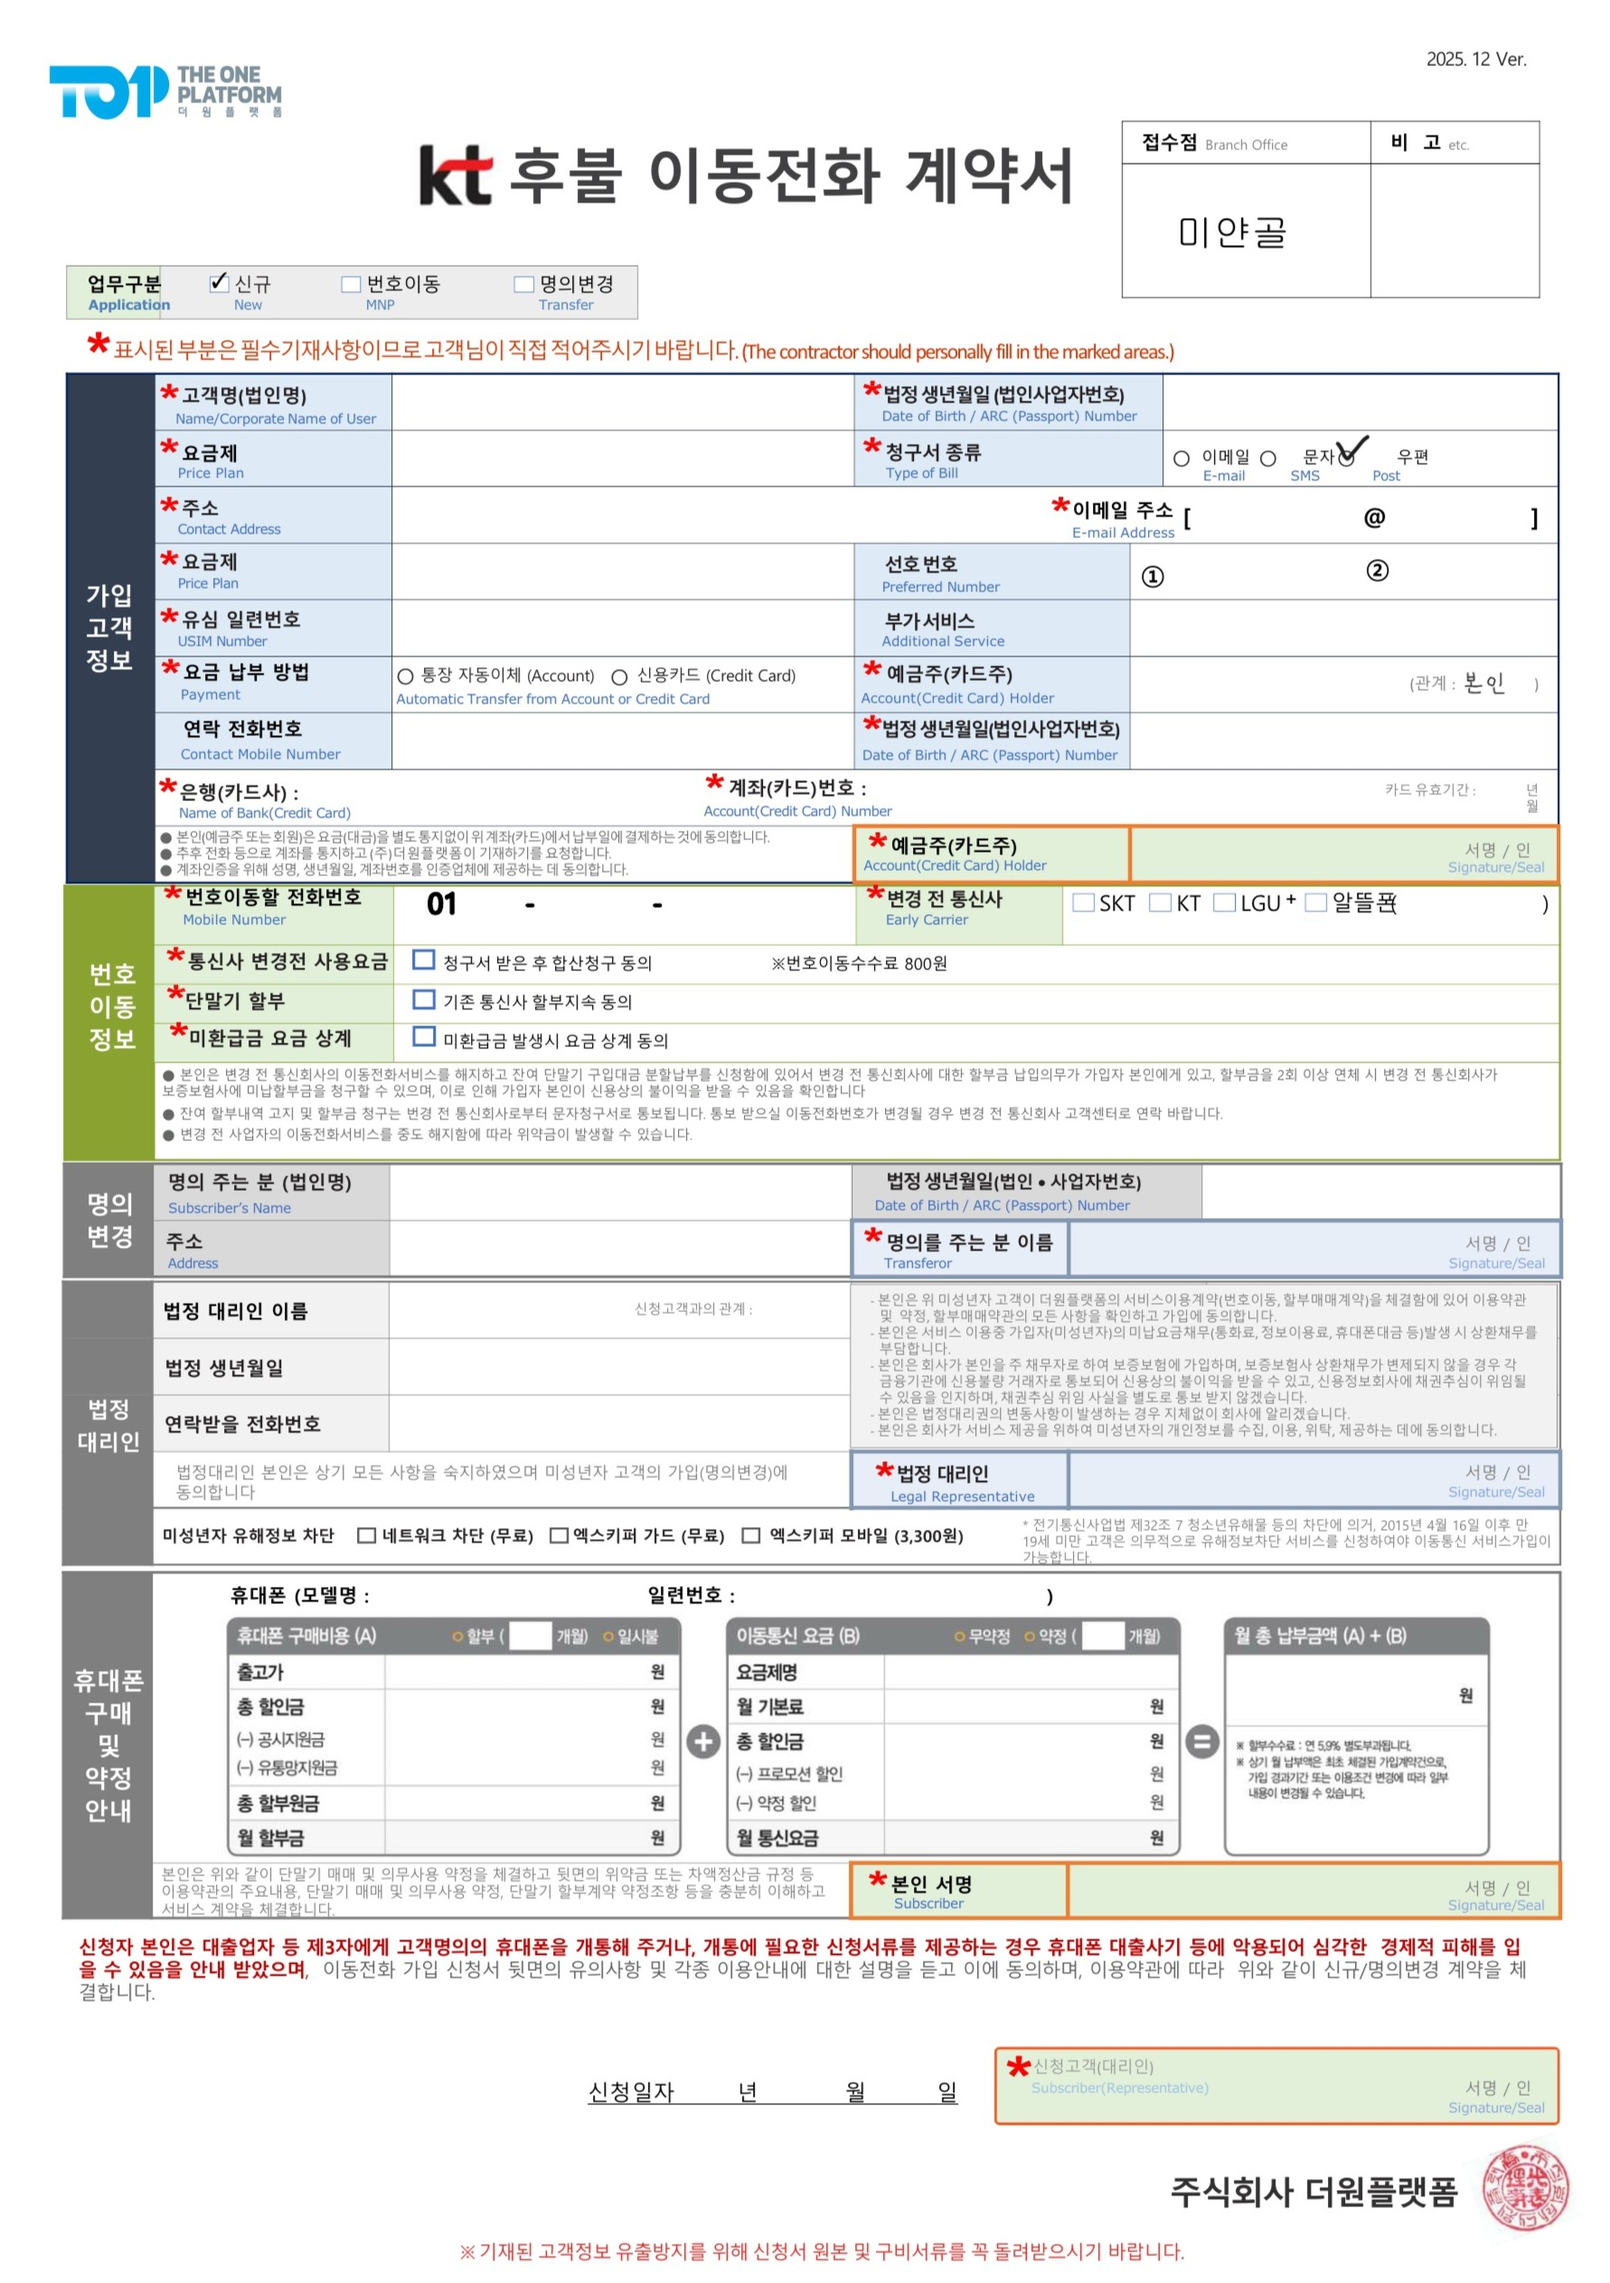
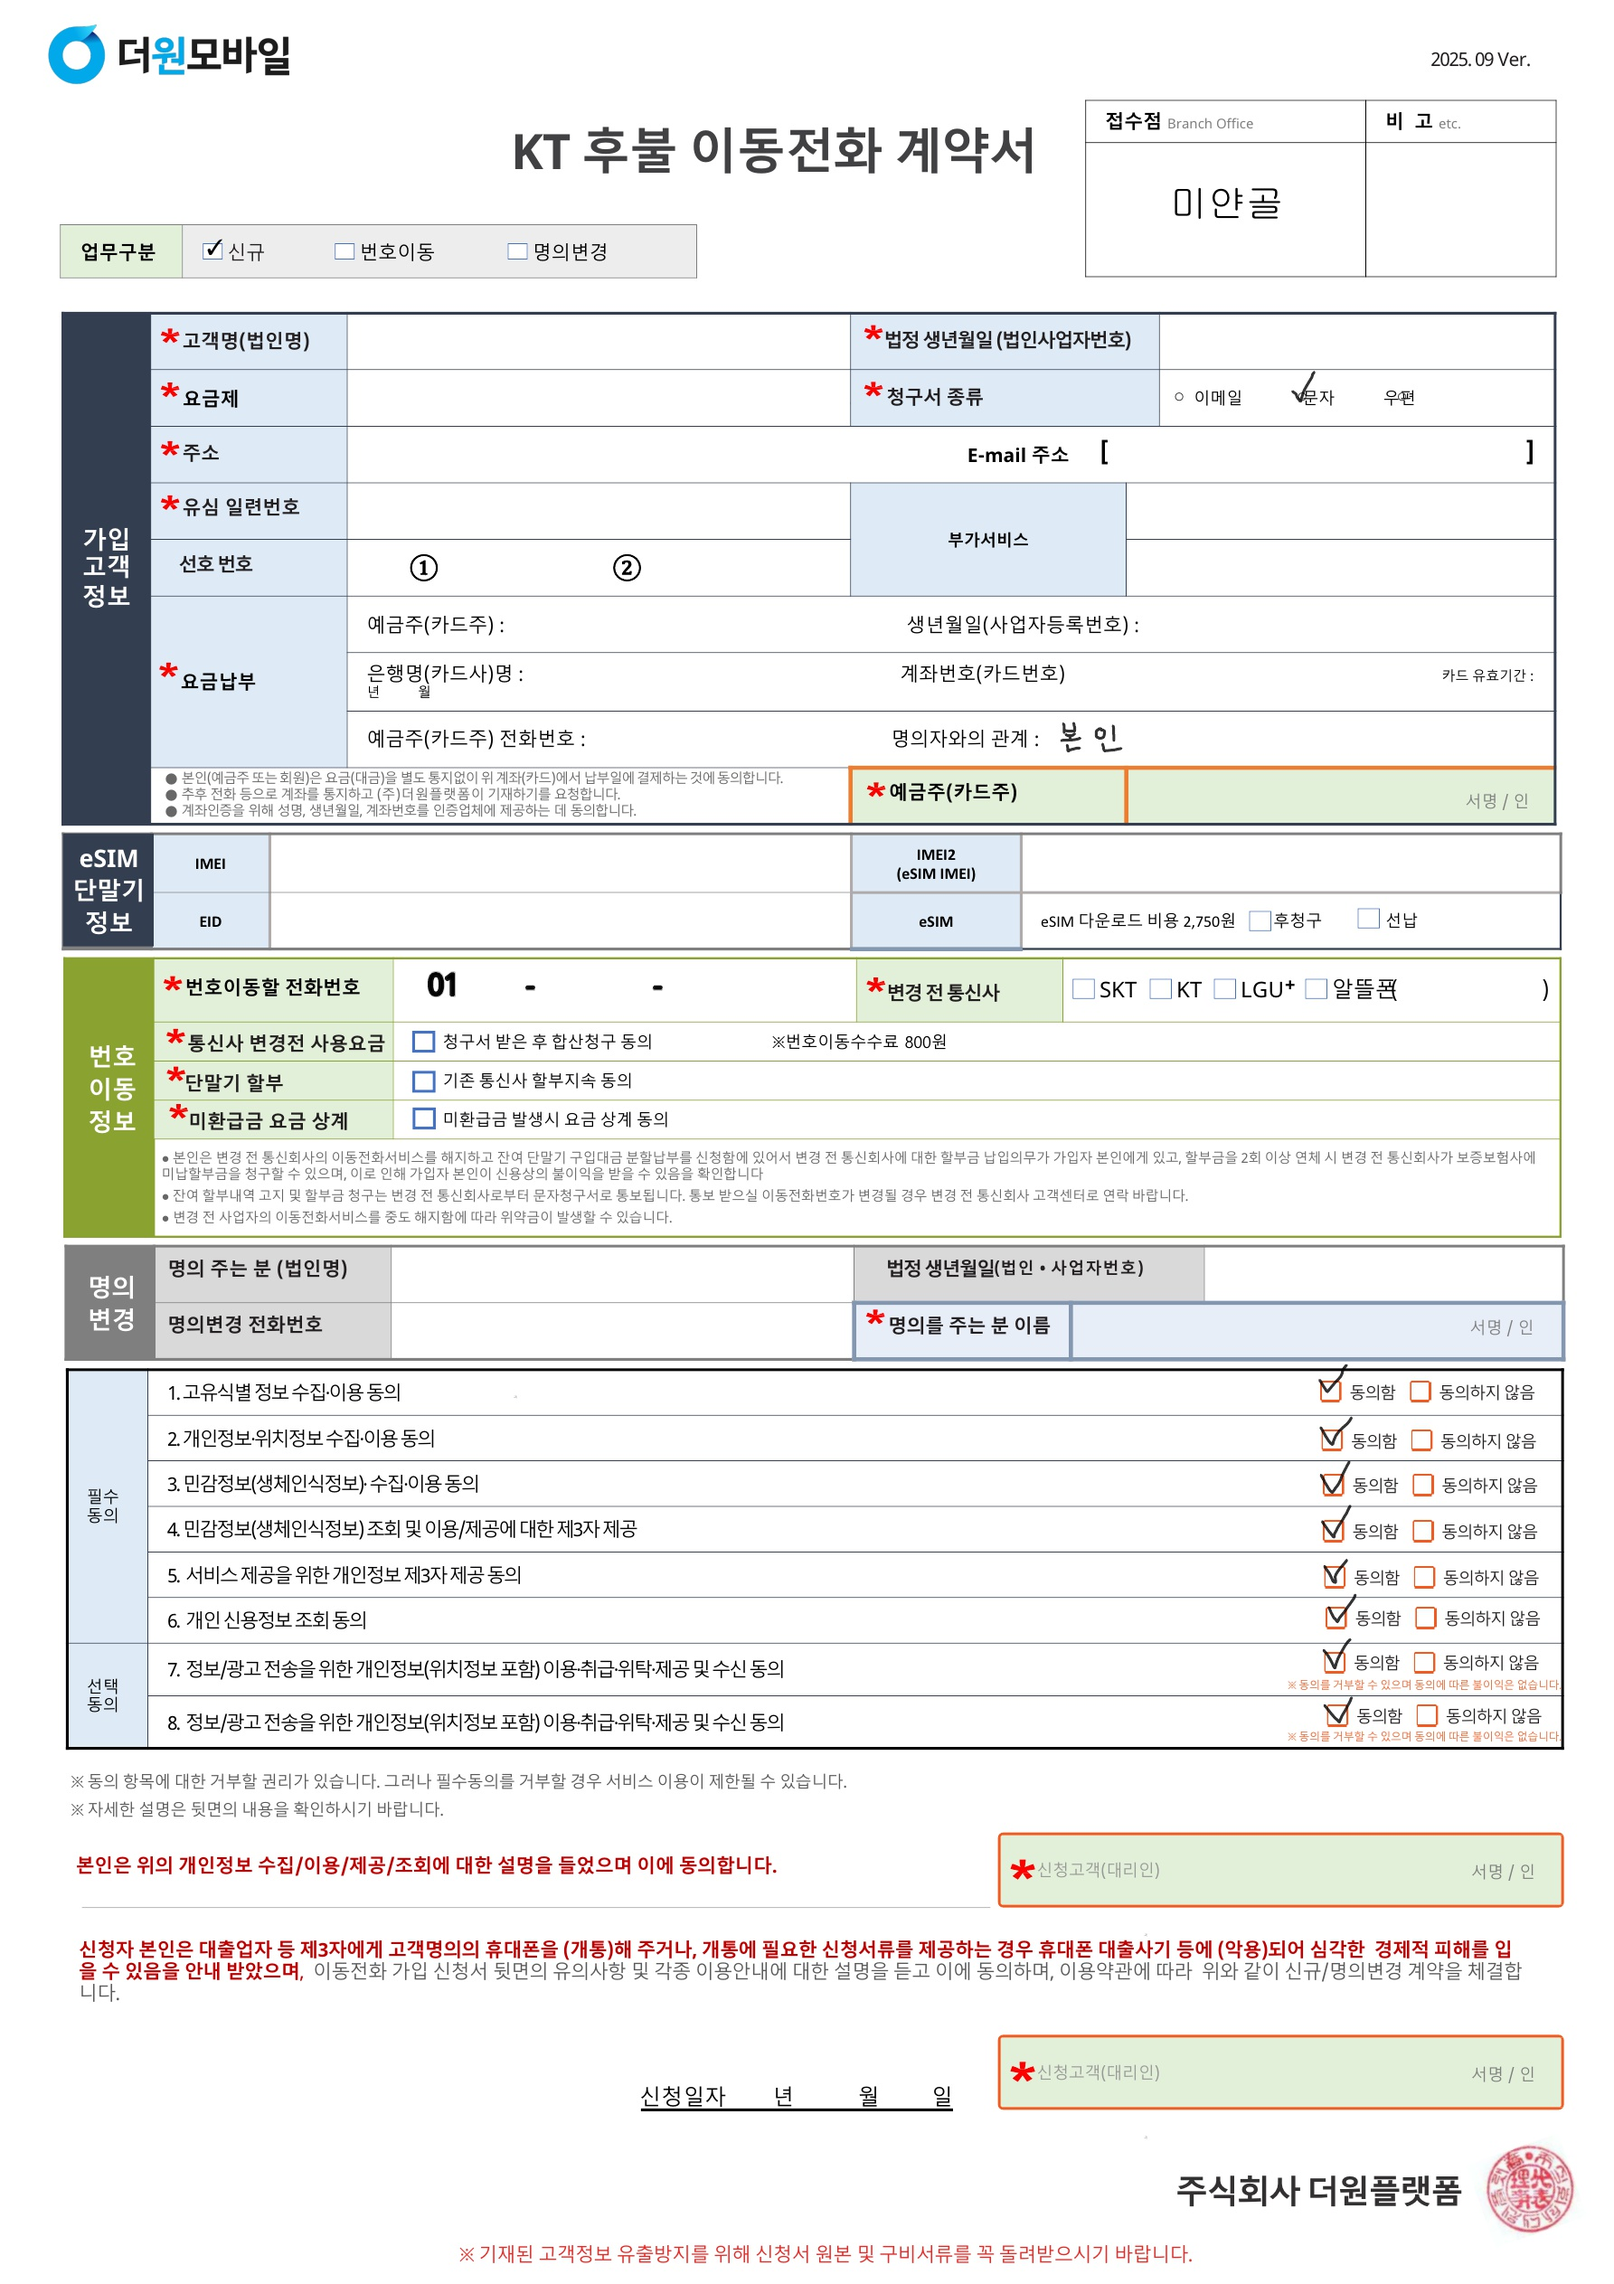
9월 서식지로 변경

diff --git a/src/pages/kt/KTTheOnePage.tsx b/src/pages/kt/KTTheOnePage.tsx
@@ -30,34 +30,34 @@ const FIELD_POSITIONS: FieldPosition[] = [
   {
     id: 'name1',
     page: 1,
-    top: 184,
-    left: 196,
-    width: 226,
-    height: 25,
+    top: 154,
+    left: 183,
+    width: 237,
+    height: 28,
     fontSize: 16,
   },
   // 2. 고객명 (위치 2)
-  { id: 'name2', page: 1, top: 323, left: 558, width: 139, height: 28, fontSize: 16 },
+  { id: 'name2', page: 1, top: 293, left: 258, width: 179, height: 27, fontSize: 16 },
   // 3. 생년월일 (위치 1)
-  { id: 'birthDate1', page: 1, top: 185, left: 580, width: 191, height: 26, fontSize: 14 },
+  { id: 'birthDate1', page: 1, top: 154, left: 575, width: 188, height: 28, fontSize: 14 },
   // 4. 생년월일 (위치 2)
-  { id: 'birthDate2', page: 1, top: 350, left: 560, width: 209, height: 29, fontSize: 14 },
+  { id: 'birthDate2', page: 1, top: 293, left: 566, width: 197, height: 28, fontSize: 14 },
   // 5. 요금제
-  { id: 'plan', page: 1, top: 268, left: 196, width: 224, height: 28, fontSize: 14 },
+  { id: 'plan', page: 1, top: 182, left: 180, width: 239, height: 28, fontSize: 14 },
   // 6. 주소
-  { id: 'address', page: 1, top: 239, left: 196, width: 321, height: 27, fontSize: 12 },
+  { id: 'address', page: 1, top: 208, left: 182, width: 289, height: 30, fontSize: 12 },
   // 7. 유심번호
-  { id: 'usimNumber', page: 1, top: 295, left: 196, width: 224, height: 29, fontSize: 14 },
+  { id: 'usimNumber', page: 1, top: 236, left: 183, width: 235, height: 29, fontSize: 14 },
   // 8. 은행명
-  { id: 'bank', page: 1, top: 378, left: 179, width: 166, height: 28, fontSize: 14 },
+  { id: 'bank', page: 1, top: 320, left: 264, width: 162, height: 28, fontSize: 14 },
   // 9. 계좌번호
-  { id: 'accountNumber', page: 1, top: 378, left: 449, width: 229, height: 28, fontSize: 14 },
+  { id: 'accountNumber', page: 1, top: 321, left: 528, width: 180, height: 28, fontSize: 14 },
   // 10. 신청일자
-  { id: 'signDate', page: 1, top: 1018, left: 332, width: 139, height: 18, fontSize: 14 },
+  { id: 'signDate', page: 1, top: 1022, left: 350, width: 139, height: 18, fontSize: 12 },
   // 11. 선호번호1
-  { id: 'wishNumber1', page: 1, top: 268, left: 579, width: 79, height: 27, fontSize: 14 },
+  { id: 'wishNumber1', page: 1, top: 264, left: 216, width: 86, height: 28, fontSize: 14 },
   // 12. 선호번호2
-  { id: 'wishNumber2', page: 1, top: 268, left: 690, width: 78, height: 27, fontSize: 14 },
+  { id: 'wishNumber2', page: 1, top: 264, left: 320, width: 98, height: 28, fontSize: 14 },
 ];
 
 interface FormData {
